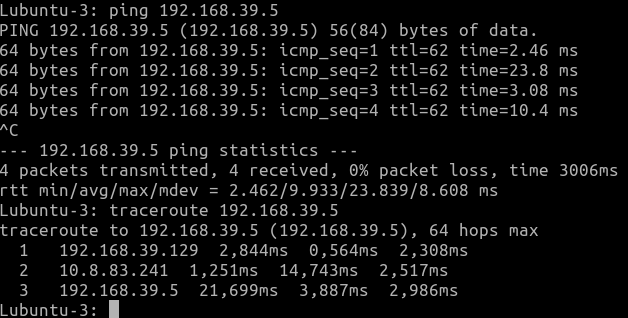
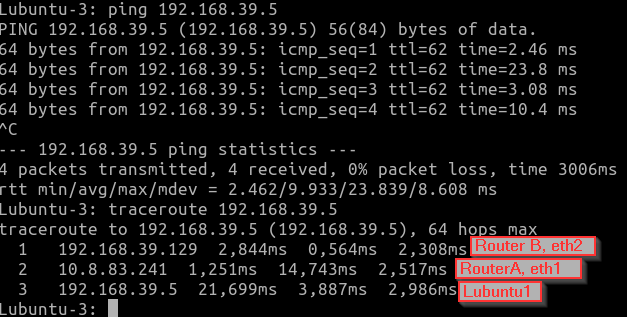
Connectivity tests

Changed region(s): [[0.0, 0.0, 1.0, 1.0], [0.0, 0.0, 0.9379, 0.4245], [0.0, 0.4528, 0.0303, 0.4811]]

diff --git a/documentation/E05.md b/documentation/E05.md
@@ -282,6 +282,6 @@ Switch B to Lubuntu2:
 
 ![](/documentation/E05/ConnectSwitchAtoLubuntu2.png)
 
-Traceroute Switch B to Lubuntu1:
+Switch B to Lubuntu1:
 
 ![](/documentation/E05/ConnectSwitchBToLubuntu1.png)
